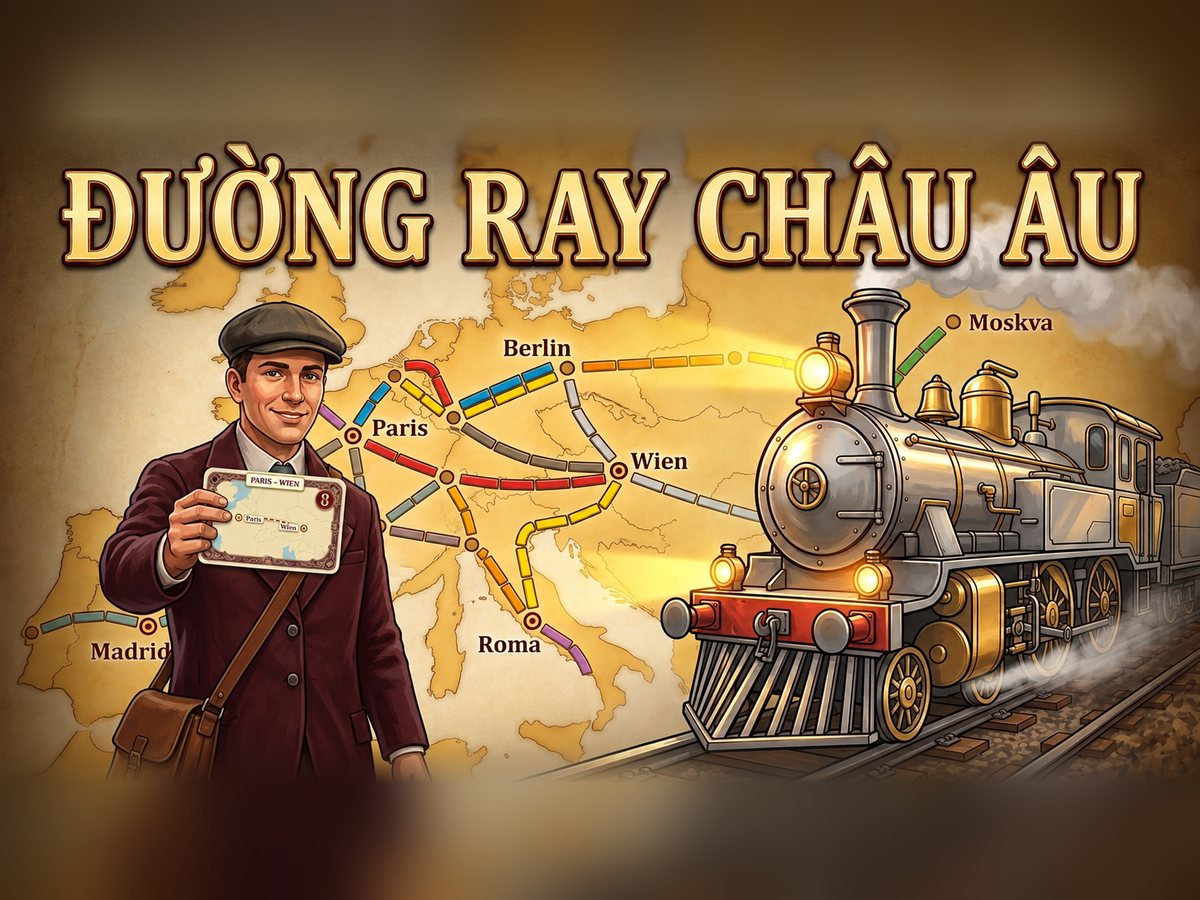
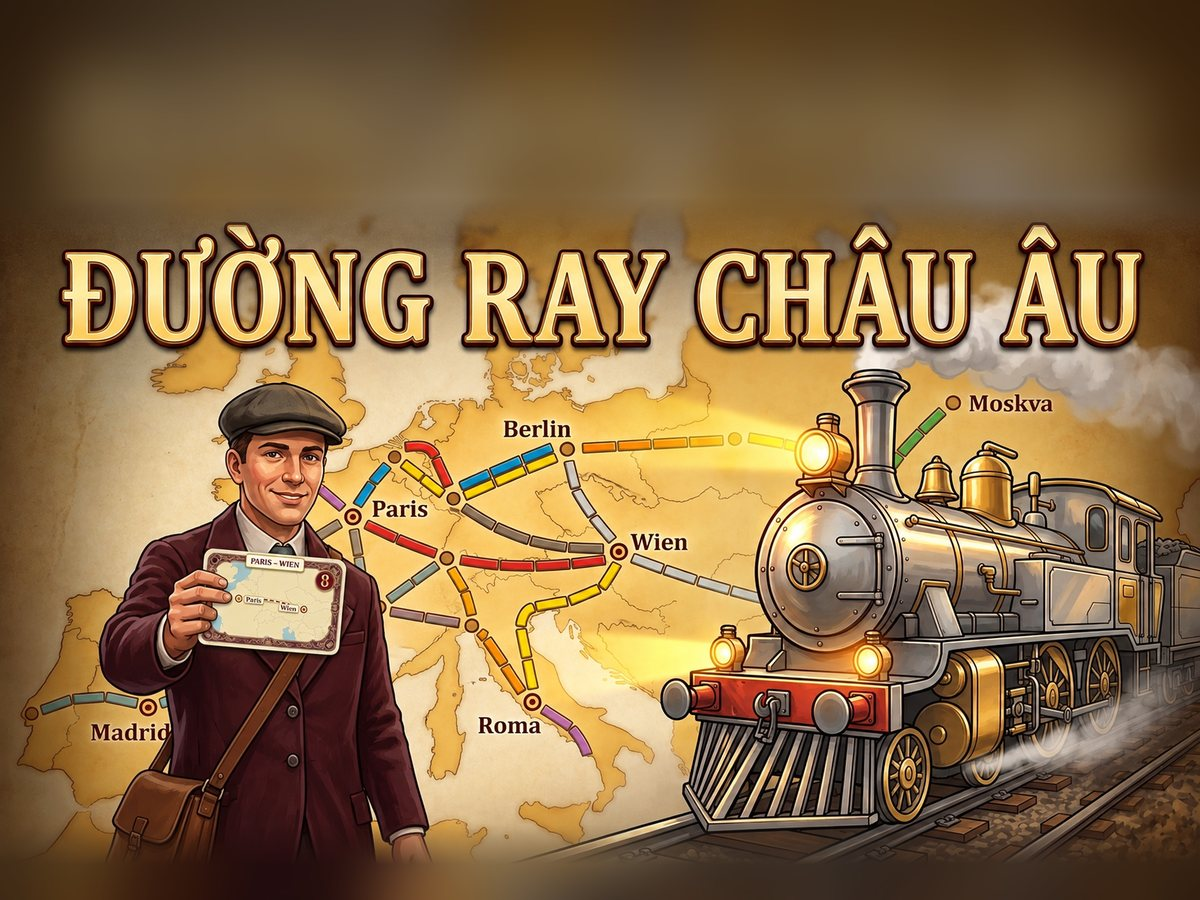
Trang chủ: căn lại ảnh bìa Đường Ray Châu Âu
Claude-Session: https://claude.ai/code/session_01C6iMujCmX6wKKq45Tr3EAE

diff --git a/index.html b/index.html
@@ -659,7 +659,7 @@ const $=s=>document.querySelector(s);
 
 function card(x,y,r,rank,suit,red,w){ w=w||46; const hgt=w*1.4; return `<g transform="translate(${x},${y}) rotate(${r})"><rect x="${-w/2}" y="${-hgt/2}" width="${w}" height="${hgt}" rx="5" fill="#fff" stroke="#c9c2b4"/><text x="${-w/2+5}" y="${-hgt/2+15}" font-size="14" font-family="Times New Roman" font-weight="bold" fill="${red?'#c0392b':'#1b1b1b'}">${rank}</text><text x="0" y="8" text-anchor="middle" font-size="24" fill="${red?'#c0392b':'#1b1b1b'}">${suit}</text></g>`; }
 const THUMBS={
-  'duong-ray-chau-au':big=>`<img src="games/duong-ray-chau-au/assets/${big?'cover':'thumb'}.jpg?v=1" alt="Đường Ray Châu Âu" loading="${big?'eager':'lazy'}" decoding="async">`,
+  'duong-ray-chau-au':big=>`<img src="games/duong-ray-chau-au/assets/${big?'cover':'thumb'}.jpg?v=2" alt="Đường Ray Châu Âu" loading="${big?'eager':'lazy'}" decoding="async">`,
   'ma-soi':()=>`<svg viewBox="0 0 300 225"><rect width="300" height="225" fill="#1b2537"/><circle cx="210" cy="62" r="34" fill="#f3f0dc"/><path d="M0 175 L40 150 L80 168 L130 140 L180 165 L230 145 L300 170 L300 225 L0 225Z" fill="#0f1622"/><path d="M120 175 L124 140 L118 126 L128 132 L136 118 L144 132 L154 126 L148 140 L152 175Z" fill="#0b0f17"/><circle cx="131" cy="136" r="2" fill="#ffcf3f"/><circle cx="141" cy="136" r="2" fill="#ffcf3f"/></svg>`,
   'da-quy':big=>`<img src="games/da-quy/assets/${big?'cover':'thumb'}.jpg" alt="Thương Nhân Đá Quý" loading="${big?'eager':'lazy'}" decoding="async">`,
   'bien-muoi':()=>`<svg viewBox="0 0 300 225"><defs><linearGradient id="bmT1" x1="0" y1="0" x2="0" y2="1"><stop offset="0" stop-color="#9fe0ff"/><stop offset="1" stop-color="#e9f9ff"/></linearGradient><linearGradient id="bmT2" x1="0" y1="0" x2="0" y2="1"><stop offset="0" stop-color="#2eaee0"/><stop offset="1" stop-color="#145f93"/></linearGradient></defs><rect width="300" height="225" fill="url(#bmT1)"/><circle cx="238" cy="52" r="26" fill="#fff6b0"/><rect y="118" width="300" height="107" fill="url(#bmT2)"/><g fill="none" stroke="#fff" stroke-opacity=".5" stroke-width="3"><path d="M0 140 q18-10 36 0 t36 0 t36 0 t36 0 t36 0 t36 0 t36 0 t36 0"/><path d="M-10 176 q18-10 36 0 t36 0 t36 0 t36 0 t36 0 t36 0 t36 0 t36 0 t36 0"/></g><path d="M70 120 L210 120 L186 158 L94 158Z" fill="#fffaf0"/><path d="M140 40 L140 116 L88 106Z" fill="#fff"/><path d="M140 40 L196 106 L140 116Z" fill="#ffd9a8"/><path d="M140 40 L162 52 L140 58Z" fill="#e8553a"/><g transform="rotate(-8 60 190)"><rect x="34" y="160" width="52" height="72" rx="6" fill="#fff" stroke="#e9c46a" stroke-width="3"/><circle cx="60" cy="190" r="12" fill="#ff7a55"/></g><g transform="rotate(7 246 186)"><rect x="220" y="158" width="52" height="72" rx="6" fill="#fff" stroke="#e9c46a" stroke-width="3"/><path d="M230 200 q16-30 32 0 q-16 14-32 0Z" fill="#b97af0"/></g></svg>`,
